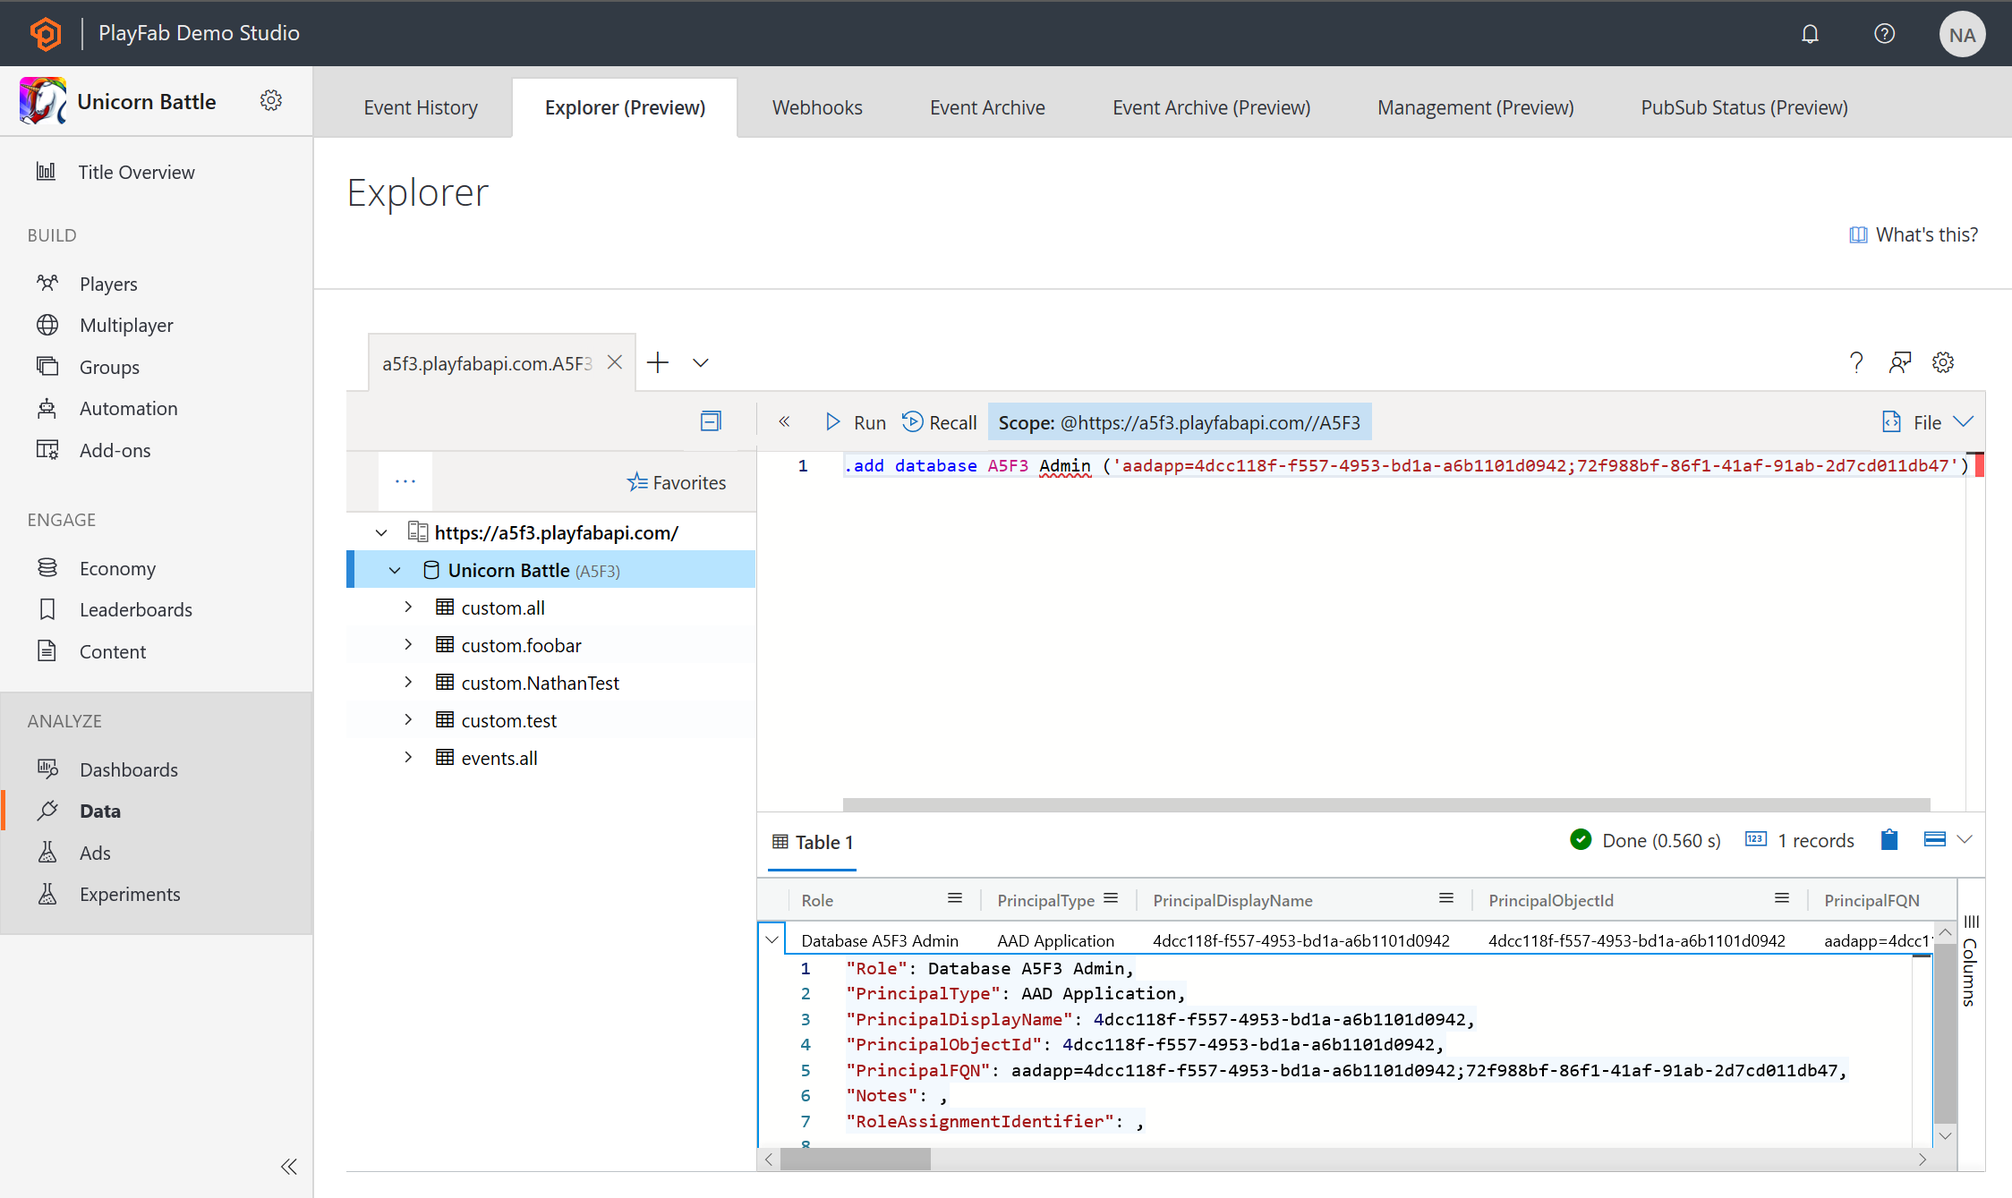
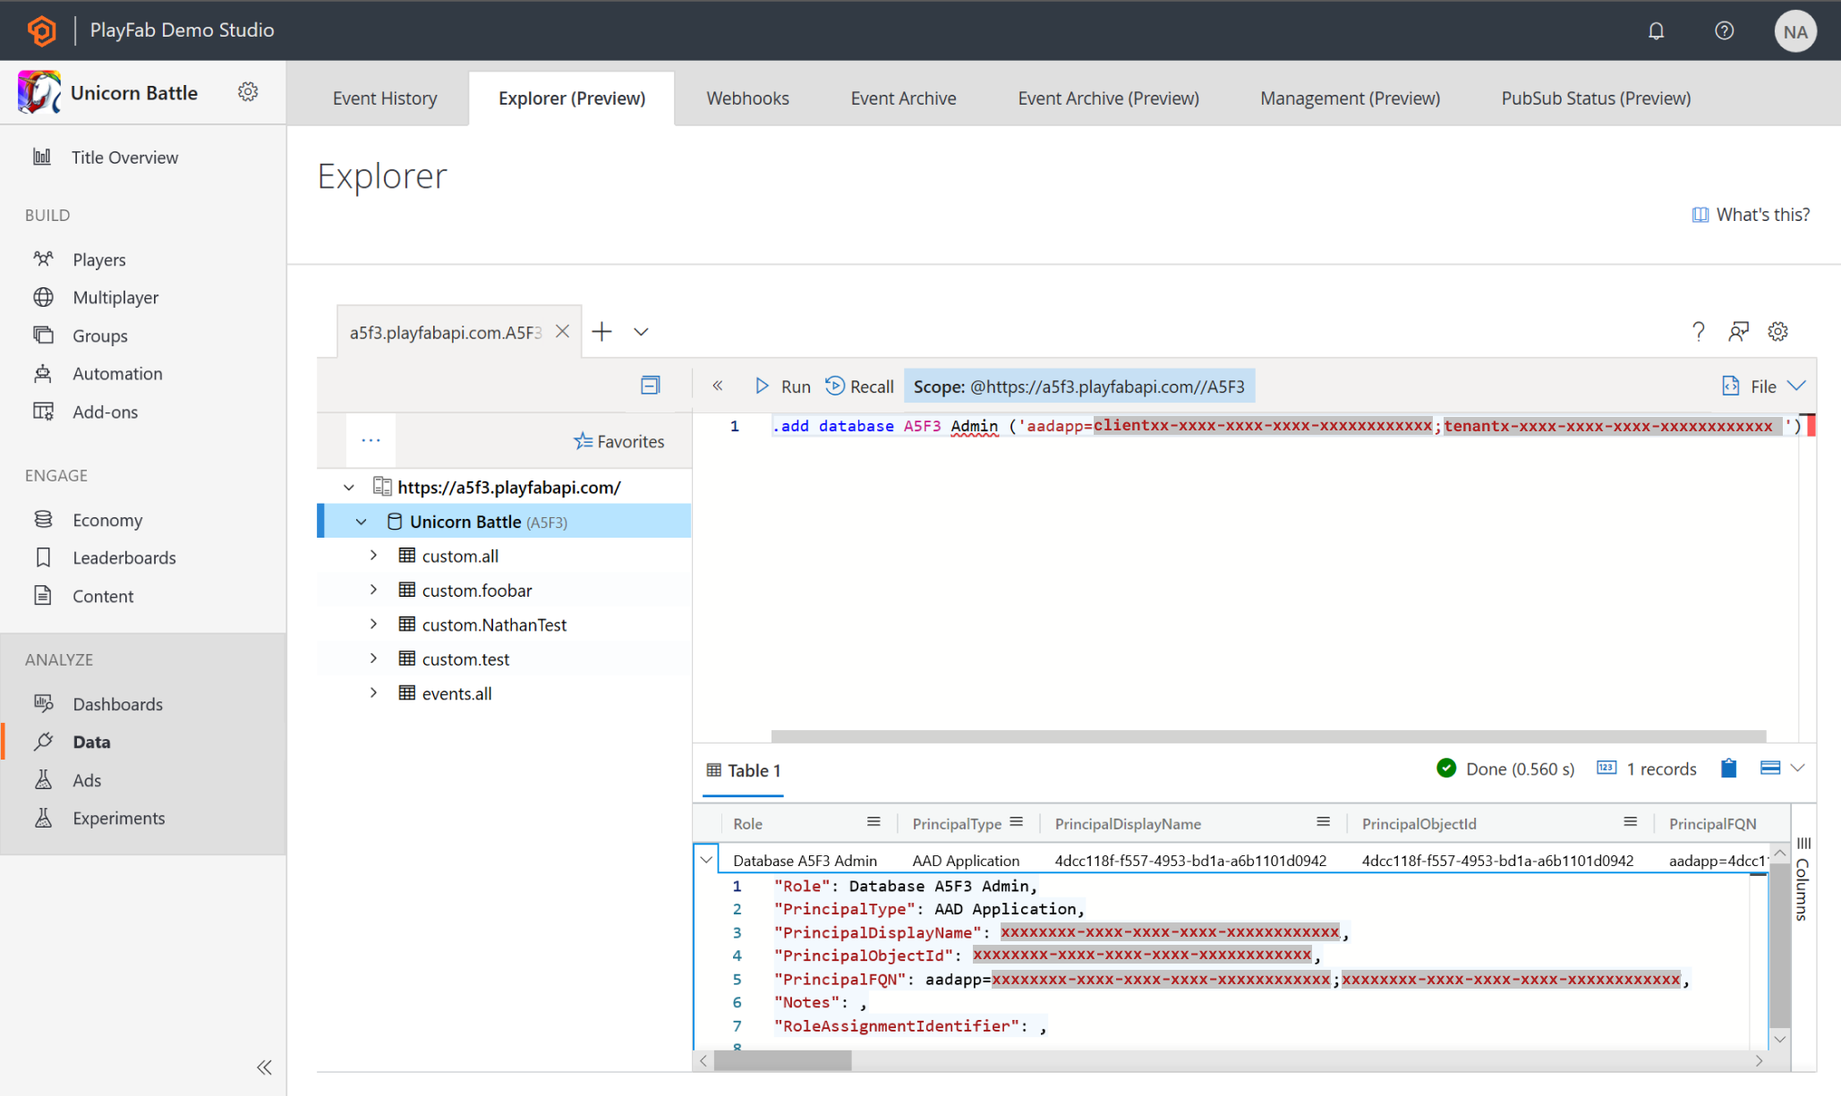
split aad prerequisite

Changed region(s): [[0.5289, 0.8376, 0.9334, 0.8996], [0.5912, 0.3722, 0.9645, 0.4033]]

diff --git a/playfab-docs/features/Insights/connectivity/connecting-insights-to-python.md b/playfab-docs/features/Insights/connectivity/connecting-insights-to-python.md
@@ -10,7 +10,7 @@ keywords: playfab, insights
 ms.localizationpriority: medium
 ---
 
-# Connecting Insights to Python
+# Tutorial: Connecting Insights to Python
 
 [comment]: < Replace links with relative links once placement of article is determined. >
 
@@ -23,53 +23,9 @@ This guide helps you get started using Insights with Python. It uses the Azure K
     *  Access to the Explorer tab and associated data.
     *  Read and write access to Analytics data.
 
-## Create an Azure Active Directory (AAD) application
+## Create and Azure Active Directory (AAD) application and connect it to your title database
 
-You are going to create a new AAD application to link to your title database. 
-
-## Create a new Azure app
-
-1. Log into the [Azure portal](https://portal.azure.com). If you don't have an Azure subscription, [create a free account](https://azure.microsoft.com).
-
-2. After logging into the portal, use the search bar to find and select **App Registrations**. Then, select **New registration** in the upper left-hand corner.  
-
-   ![ADF New Registrations](media/adf-new-registration.png)
-
-3. In the **Register an application** window enter a name for your registration, then select which account types you would like this registration to support. (If you need help deciding, select the **Help me choose** link which will open a window with more information.)
-
-   ![ADF Register App](media/adf-register-app.png)  
-
-4. Select **Register**. You will be directed to a page with an overview of your newly-registered applcation. Save the **Application (client) ID** and **Directory (tenant) ID** somewhere (you will need these later).
-
-5. In the navigation panel on the left-hand side select **Certificates & secrets** -> **New client secret**. 
-
-   ![ADF Certificates & Secrets](media/adf-certificates-secrets.png)
-
-6. Enter a description for the secret and select how long you would like it to be valid. 
-
-   ![ADF Add Secret](media/adf-add-secret.png)
-
-7. Select **Add**, and the new secret will appear below **Client secrets**. Now make sure to copy the secret key and save it somewhere secure. *It's essential that you do this now, since you won't be able to access the secret key once you leave this page.*
-
-## Connect the AAD app to your title database
-
-Now we will connect the Azure app to your title database. 
-
-1. From the **Explorer** page in GameManager or in Kusto.Explorer, run the following command, replacing with your own Title ID and client/tenant ID:
-   > `.add database <titleID> Admin ('aadapp=<app/client ID>;<tenant ID>') `
-
-   `titleID` is case sensitive, so make sure it is in all caps.
-
-   ![Explorer Add Database](media/explorer-add-database.png)
-
-   You can verify that this command was successful by going to the **Users** page in [GameManager](https://developer.playfab.com/login). There should be an entry that matches the Client/Tenant ID.
-
-   Note that this will make the Azure app an Admin on your game in PlayFab. If you would like the Azure app to have lesser permissions, assign the Azure app a [custom role](https://docs.microsoft.com/gaming/playfab/features/config/gamemanager/playfab-user-roles#assigning-roles) in PlayFab that only has permissions for the Kusto database. The necessary permissions are:
-   * Explorer data & tab.
-   * Analytics data read access.
-   * Analytics data write access.
-
-   ![Connectivity Custom Role](media/connectivity-cutom-role.png)
+1. Follow the steps in this [guide](create-AAD-app-for-insights.md) to create an Azure Active Directory (AAD) application and connect it to your title database.
 
 ## Install Python packages
 
@@ -78,3 +34,44 @@ Now we will connect the Azure app to your title database.
    * azure-kusto-ingest
    * adal
 
+Below is an example script to get started with. 
+
+```python
+from azure.kusto.data.exceptions import KustoServiceError
+from azure.kusto.data.request import KustoClient, KustoConnectionStringBuilder, ClientRequestProperties
+
+from adal import AuthenticationContext
+
+cluster = "https://<title id>.playfabapi.com"
+
+# These parameters are taken from your Azure app
+client_id = "<Azure app client id>"
+client_secret = "<Azure app client secret>" 
+tenant = "<Azure app tenant id>"
+
+authority_url = "https://login.microsoftonline.com/" + tenant
+context = AuthenticationContext(authority_url)
+
+# Acquire a token from AAD to pass to PlayFab
+resource = "https://help.kusto.windows.net"
+token_response = context.acquire_token_with_client_credentials(resource, client_id, client_secret)
+
+token = None
+if token_response:
+    if token_response['accessToken']:
+        token = token_response['accessToken']
+
+kcsb = KustoConnectionStringBuilder.with_aad_application_token_authentication(cluster, token)
+client = KustoClient(kcsb)
+
+db = "<title id>"
+query = "['events.all'] | count"
+
+# Force Kusto to use the v1 query endpoint
+client._query_endpoint = cluster + "/v1/rest/query"
+
+response = client.execute(db, query)
+
+# Response processing
+print(response)
+```

diff --git a/playfab-docs/features/Insights/connectivity/connecting-insights-to-azure-data-factory.md b/playfab-docs/features/Insights/connectivity/connecting-insights-to-azure-data-factory.md
@@ -10,7 +10,7 @@ keywords: playfab, insights
 ms.localizationpriority: medium
 ---
 
-# Connecting Insights to Azure Data Factory (ADF)
+# Tutorial: Connecting Insights to Azure Data Factory (ADF)
 
 [comment]: < Replace links with relative links once placement of article is determined. >
 This guide helps you get started using Insights along with Azure Data Factory. To learn more about other tools you can connect Insights with, go [here](insights-connectivity.md).
@@ -22,53 +22,12 @@ This guide helps you get started using Insights along with Azure Data Factory. T
     *  Access to the Explorer tab and associated data.
     *  Read and write access to Analytics data.
 
-## Create an Azure Active Directory (AAD) application
+## Create and Azure Active Directory (AAD) application and connect it to your title database
 
-You are going to create a new AAD application to link to your title database.
-
-1. Log into the [Azure portal](https://portal.azure.com). If you don't have an Azure subscription, [create a free trial account](https://azure.microsoft.com).
-
-2. After logging into the portal, use the search bar to find and select **App Registrations**. Then, select **New registration** in the upper left-hand corner.  
-
-   ![ADF New Registrations](media/adf-new-registration.png)
-
-3. In the **Register an application** window enter a name for your registration, then select which account types you would like this registration to support. (If you need help deciding, select the **Help me choose** link which will open a window with more information.)
-
-   ![ADF Register App](media/adf-register-app.png)    
-
-4. Select **Register**. You will be directed to a page with an overview of your newly-registered applcation. Save the **Application (client) ID** and **Directory (tenant) ID** somewhere (you will need these later).
-
-5. In the navigation panel on the left-hand side select **Certificates & secrets** -> **New client secret**. 
-
-   ![ADF Certificates & Secrets](media/adf-certificates-secrets.png)
-
-6. Enter a description for the secret and select how long you would like it to be valid. 
-
-   ![ADF Add Secret](media/adf-add-secret.png)
-
-7. Select **Add**, and the new secret will appear below **Client secrets**. Now make sure to copy the secret key and save it somewhere secure. *It's essential that you do this now, since you won't be able to access the secret key once you leave this page.*  
-
-## Connect the Azure app to Kusto Explorer
-Now we will connect the Azure app to your title database. 
-
-1. From the **Explorer** page in GameManager or in Kusto.Explorer, run the following command, replacing with your own Title ID and client/tenant ID:
-   > `.add database <titleID> Admin ('aadapp=<app/client ID>;<tenant ID>') `
-
-   `titleID` is case sensitive, so make sure it is in all caps.
-
-   ![Explorer Add Database](media/explorer-add-database.png)
-
-   You can verify that this command was successful by going to the **Users** page in [GameManager](https://developer.playfab.com/login). There should be an entry that matches the Client/Tenant ID.
-
-   Note that this will make the Azure app an Admin on your game in PlayFab. If you would like the Azure app to have lesser permissions, assign the Azure app a [custom role](https://docs.microsoft.com/gaming/playfab/features/config/gamemanager/playfab-user-roles#assigning-roles) in PlayFab that only has permissions for the Kusto database. The necessary permissions are:
-   * Explorer data & tab.
-   * Analytics data read access.
-   * Analytics data write access.
-
-   ![Connectivity Custom Role](media/connectivity-cutom-role.png)
+1. Follow the steps in this [guide](create-AAD-app-for-insights.md) to create an Azure Active Directory (AAD) application and connect it to your title database.
 
 ## Create a new Data Factory
-1. Go back to the Azure portal. From the homepage, select **Create a resource**. Search for and select **Data Factory**. Select **Create**.
+1. Login to the [Azure portal](https://portal.azure.com). From the homepage, select **Create a resource**. Search for and select **Data Factory**. Select **Create**.
 
    ![ADF Create Resource](media/adf-create-resource.png)
 

diff --git a/playfab-docs/features/Insights/connectivity/connecting-insights-to-grafana.md b/playfab-docs/features/Insights/connectivity/connecting-insights-to-grafana.md
@@ -10,7 +10,7 @@ keywords: playfab, insights
 ms.localizationpriority: medium
 ---
 
-# Connecting Insights to Grafana
+# Tutorial: Connecting Insights to Grafana
 
 [comment]: < Replace links with relative links once placement of article is determined. >
 
@@ -23,58 +23,15 @@ This guide helps you get started using Insights along with Grafana. To learn mor
     *  Access to the Explorer tab and associated data.
     *  Read and write access to Analytics data.
 
+## Create and Azure Active Directory (AAD) application and connect it to your title database
+
+1. Follow the steps in this [guide](create-AAD-app-for-insights.md) to create an Azure Active Directory (AAD) application and connect it to your title database.
+
 ## Get set up with Grafana
 1. If you don't have a free Grafana account, create one [here](https://grafana.com/login). You can either download Grafana to run on your computer or use the online hosted instance. 
 
 2. Install the Azure Data Explorer [plugin](https://grafana.com/grafana/plugins/grafana-azure-data-explorer-datasource) for Grafana.
 
-## Create an Azure Active Directory (AAD) application
-
-You are going to create a new AAD application to link to your title database. 
-
-1. Log into the [Azure portal](https://portal.azure.com). If you don't have an Azure subscription, [create a free account](https://azure.microsoft.com).
-
-2. After logging into the portal, use the search bar to find and select **App Registrations**. Then, select **New registration** in the upper left-hand corner.  
-
-   ![ADF New Registrations](media/adf-new-registration.png)
-
-3. In the **Register an application** window enter a name for your registration, then select which account types you would like this registration to support. (If you need help deciding, select the **Help me choose** link which will open a window with more information.)
-
-   ![ADF Register App](media/adf-register-app.png)  
-
-4. Select **Register**. You will be directed to a page with an overview of your newly-registered applcation. Save the **Application (client) ID** and **Directory (tenant) ID** somewhere (you will need these later).
-
-5. In the navigation panel on the left-hand side select **Certificates & secrets** -> **New client secret**. 
-
-   ![ADF Certificates & Secrets](media/adf-certificates-secrets.png)
-
-6. Enter a description for the secret and select how long you would like it to be valid. 
-
-   ![ADF Add Secret](media/adf-add-secret.png)
-
-7. Select **Add**, and the new secret will appear below **Client secrets**. Now make sure to copy the secret key and save it somewhere secure. *It's essential that you do this now, since you won't be able to access the secret key once you leave this page.*
-
-## Connect the AAD app to your title database
-
-Now we will connect the Azure app to your title database. 
-
-1. Now we will connect the Azure app to your title database. 
-
-1. From the **Explorer** page in GameManager or in Kusto.Explorer, run the following command, replacing with your own Title ID and client/tenant ID:
-   > `.add database <titleID> Admin ('aadapp=<app/client ID>;<tenant ID>') `
-
-   `titleID` is case sensitive, so make sure it is in all caps.
-
-   ![Explorer Add Database](media/explorer-add-database.png)
-
-   You can verify that this command was successful by going to the **Users** page in [GameManager](https://developer.playfab.com/login). There should be an entry that matches the Client/Tenant ID.
-
-   Note that this will make the Azure app an Admin on your game in PlayFab. If you would like the Azure app to have lesser permissions, assign the Azure app a [custom role](https://docs.microsoft.com/gaming/playfab/features/config/gamemanager/playfab-user-roles#assigning-roles) in PlayFab that only has permissions for the Kusto database. The necessary permissions are:
-   * Explorer data & tab.
-   * Analytics data read access.
-   * Analytics data write access.
-
-   ![Connectivity Custom Role](media/connectivity-cutom-role.png)
 ## Create a new data source in Grafana
 Now that your title database is linked to an Azure app, you can use the app to connect with Grafana.
 

diff --git a/playfab-docs/features/Insights/connectivity/create-AAD-app-for-insights.md b/playfab-docs/features/Insights/connectivity/create-AAD-app-for-insights.md
@@ -1,0 +1,71 @@
+---
+title: Creating an AAD app and connecting it to title database
+author: natashaorie
+description: Creating an AAD app and connecting it to title database
+ms.author: norie
+ms.date: 02/27/2020    
+ms.topic: article
+ms.prod: playfab
+keywords: playfab, insights
+ms.localizationpriority: medium
+---
+
+# Tutorial: Create an Azure Active Directory (AAD) Application to use with Insights
+
+This tutorial covers a prerequisite for connecting Insights with following tools:
+* Azure Data Factory (ADF)
+* Grafana
+* Python
+
+## Create an Azure Active Directory (AAD) application
+
+You are going to create a new AAD application to link to your title database. 
+
+1. Log into the [Azure portal](https://portal.azure.com). If you don't have an Azure subscription, [create a free account](https://azure.microsoft.com).
+
+2. After logging into the portal, use the search bar to find and select **App Registrations**. Then, select **New registration** in the upper left-hand corner.  
+
+   ![ADF New Registrations](media/adf-new-registration.png)
+
+3. In the **Register an application** window enter a name for your registration, then select which account types you would like this registration to support. (If you need help deciding, select the **Help me choose** link which will open a window with more information.)
+
+   ![ADF Register App](media/adf-register-app.png)  
+
+4. Select **Register**. You will be directed to a page with an overview of your newly-registered applcation. Save the **Application (client) ID** and **Directory (tenant) ID** somewhere (you will need these later).
+
+5. In the navigation panel on the left-hand side select **Certificates & secrets** -> **New client secret**. 
+
+   ![ADF Certificates & Secrets](media/adf-certificates-secrets.png)
+
+6. Enter a description for the secret and select how long you would like it to be valid. 
+
+   ![ADF Add Secret](media/adf-add-secret.png)
+
+7. Select **Add**, and the new secret will appear below **Client secrets**. Now make sure to copy the secret key and save it somewhere secure. *It's essential that you do this now, since you won't be able to access the secret key once you leave this page.*
+
+## Connect the AAD app to your title database
+
+Now we will connect the Azure app to your title database. 
+
+1. From the **Explorer** page in GameManager or in Kusto.Explorer, run the following command, replacing with your own Title ID and client/tenant ID:
+   > `.add database <titleID> Admin ('aadapp=<app/client ID>;<tenant ID>') `
+
+   `titleID` is case sensitive, so make sure it is in all caps.
+
+   ![Explorer Add Database](media/explorer-add-database.png)
+
+   You can verify that this command was successful by going to the **Users** page in [GameManager](https://developer.playfab.com/login). There should be an entry that matches the Client/Tenant ID.
+
+   Note that this will make the Azure app an Admin on your game in PlayFab. If you would like the Azure app to have lesser permissions, assign the Azure app a [custom role](https://docs.microsoft.com/gaming/playfab/features/config/gamemanager/playfab-user-roles#assigning-roles) in PlayFab that only has permissions for the Kusto database. The necessary permissions are:
+   * **Explorer data & tab**.
+   * **Analytics data read access**, to run queries and simple management commands.
+   * **Analytics data write access**, to create/drop tables, alter retention policy, ingest data, purge.
+
+   ![Connectivity Custom Role](media/connectivity-cutom-role.png)
+
+   ## Next steps
+
+   Now that you have created an Azure app and linked it to your title database, follow the steps to connect Insights with your tool of choice:
+   *  [Connect with Azure Data Factory (ADF)](#connect-with-azure-data-factory-adf)
+   * [Connect with Grafana](#connect-with-grafana)
+   * [Connect with Python](#connect-with-python)

diff --git a/playfab-docs/features/Insights/connectivity/insights-connectivity.md b/playfab-docs/features/Insights/connectivity/insights-connectivity.md
@@ -38,7 +38,7 @@ Open [Power BI](https://powerbi.microsoft.com/desktop/) for desktop.
 1. In the **Power BI Desktop** window, select **Get Data** -> **Azure Data Explorer (Kusto)**.
 2. In the **Azure Data Explorer (Kusto)** dialog box take the following steps:
    * Under **Cluster** enter your API endpoint, which follows the format `https://<titleid>.playfabapi.com`. 
-   * Under **Database** enter your title ID in all uppercase. 
+   * Under **Database** enter your title ID in all uppercase, as Database names are case sensitive. 
    * Scroll down, and under **Data Connectivity mode** select **DirectQuery**.
 
    Optionally, enter a table or query. You can also set limits for max records or max size. Note that if your query exceeds these limits, it will fail as `PartialQueryFailure` and return a message saying you exceeded limits. 
@@ -46,6 +46,7 @@ Open [Power BI](https://powerbi.microsoft.com/desktop/) for desktop.
    You can see in our example that we entered a query on the table `events.all` that returns events occuring in the last seven days. 
 
    ![Power BI Setup](media/powerBI.png)
+   ![Power BI Setup Extended](media/powerBI-2.png)
 
 3. Select **OK**, and you should now be able to execute queries and commands on the database. 
 
@@ -58,11 +59,11 @@ Open [Kusto.Explorer](https://docs.microsoft.com/azure/kusto/tools/kusto-explore
 2. In the **Add connection** dialog box take the following steps:
    * Under **Cluster connection** enter your API endpoint, which follows the format `https://<titleid>.playfabapi.com`. 
    * Under **Security**, make sure **AAD Federated** is selected. 
-   * Expand the **Advanced: Connection String** box and change the value of **Initial Catalog** from `NetDefaultDB` to `<titleID>`. In the example below, this change is highlighted in the string. 
+   * Expand the **Advanced: Connection String** box and change the value of **Initial Catalog** from `NetDefaultDB` to `<titleID>`. Note that `<titleID>` must be all uppercase here. In the example below, this change is highlighted in the string. 
   
    ![Kusto.Explorer add connection](media/kusto-explorer.png)
 
-3. Select **OK**, and you should now be able to execute queries and commands on the database.
+3. Select **OK**, and you should now be able to visualize the results of the query.
 
 ## Connect with Azure Data Explorer (ADX)
  
@@ -82,5 +83,6 @@ Follow the steps in the [Connecting Insights to Azure Data Factory (ADF)](connec
 Follow the steps in the [Connecting Insights to Grafana](connecting-insights-to-grafana.md) guide.
 
 ## Connect with Python
+
 
 Follow the steps in the [Connecting Insights to Python](connecting-insights-to-python.md) guide.
